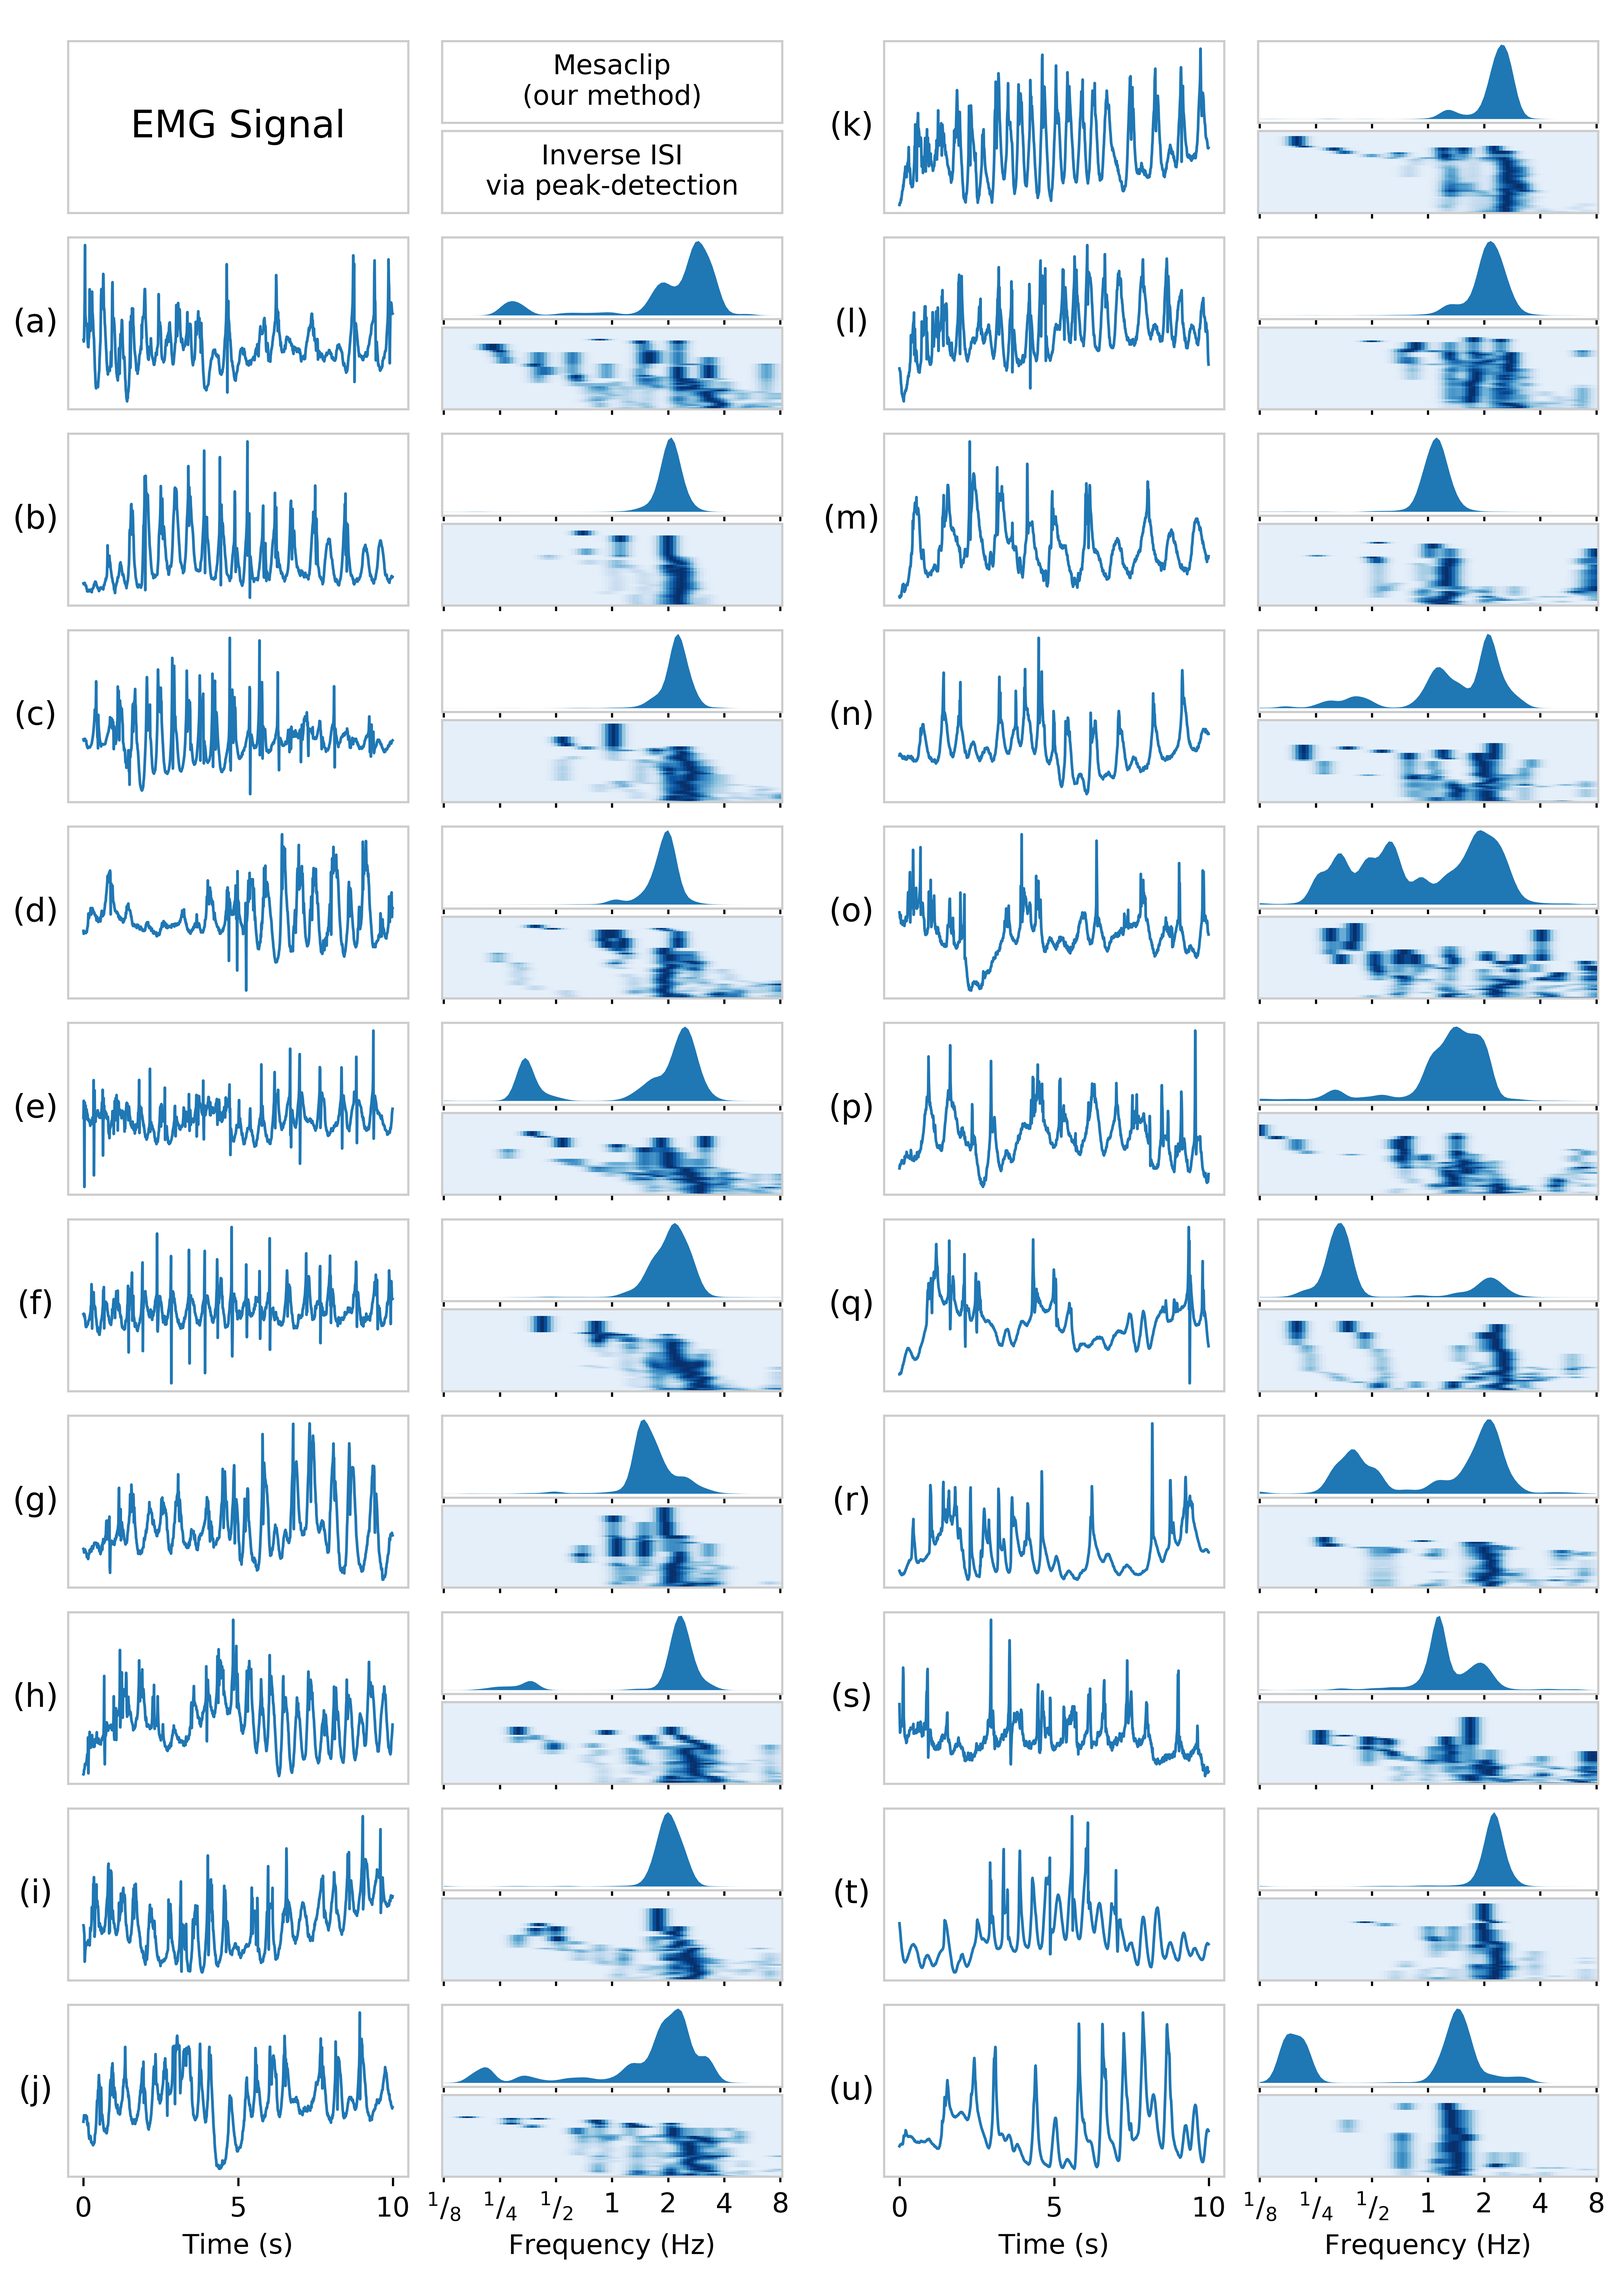
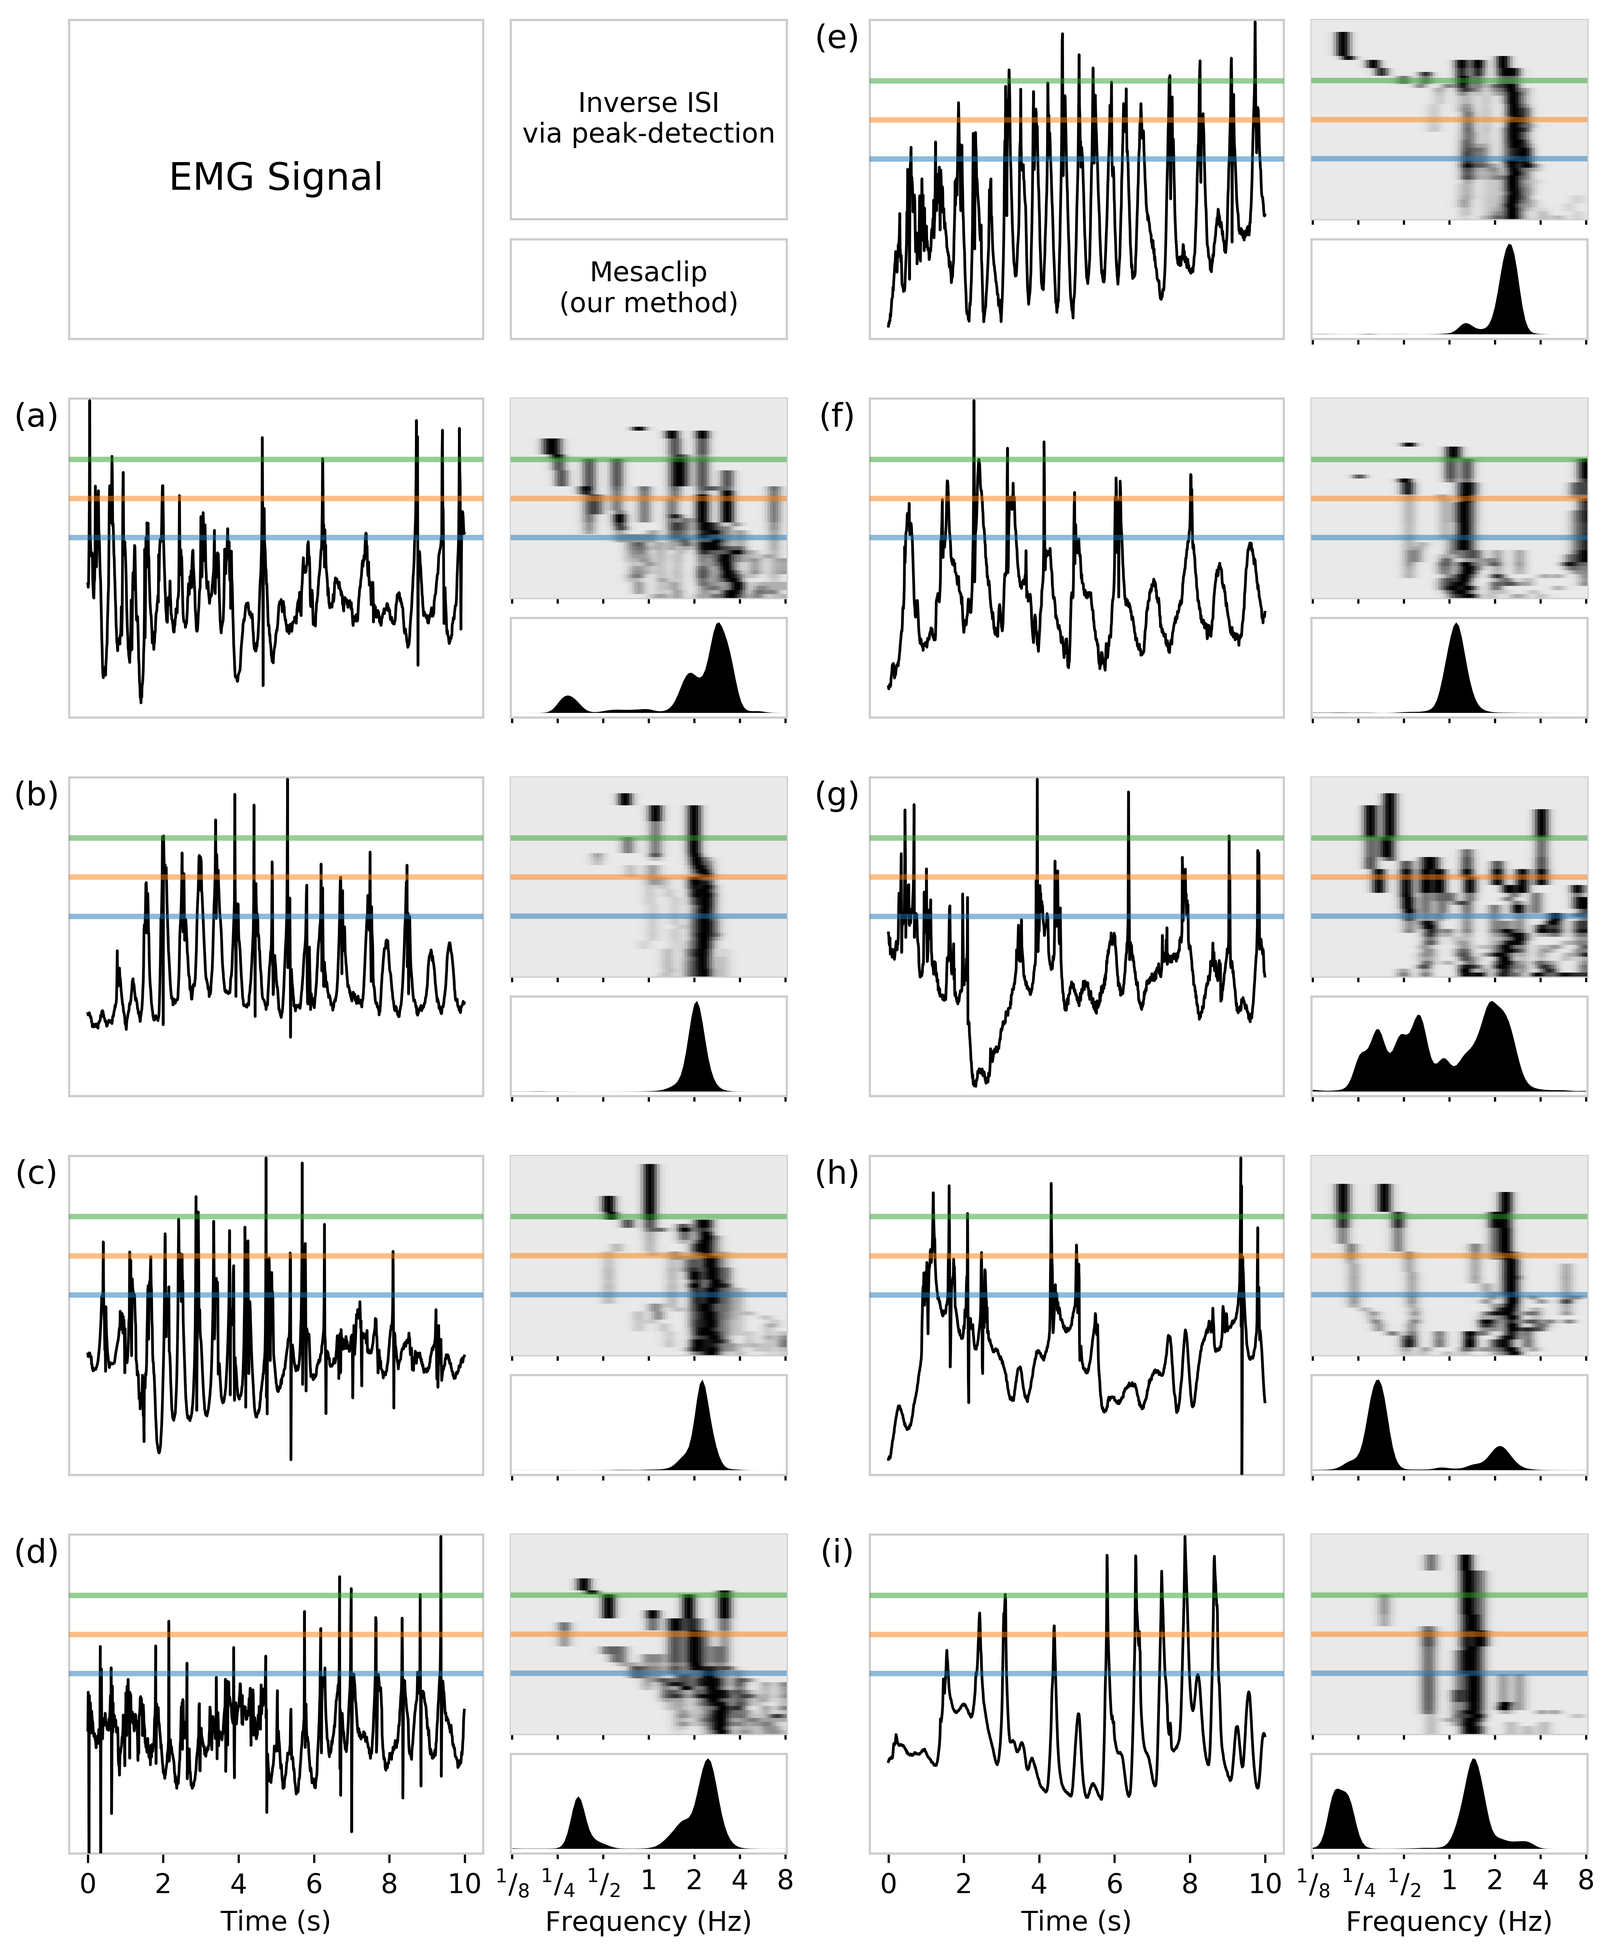
modify real_data to reduce number of examples and highlight thresholds

diff --git a/src/real_data.py b/src/real_data.py
@@ -85,7 +85,13 @@ def main():
 
     xs, t, freqs, threshes, peak_hists, amps = get_results()
 
-    print(np.log2(freqs[1]) - np.log2(freqs[0]))
+    # subset results for clearer/larger view (using original a..u labels)
+    idxs = [ord(c) - ord('a') for c in ['a', 'b', 'c', 'e', 'k', 'm', 'o', 'q', 'u']]
+    xs = xs[idxs]
+    peak_hists = peak_hists[idxs]
+    amps = amps[idxs]
+
+    print(f'delta logHz = {np.log2(freqs[1]) - np.log2(freqs[0]):.3f}')
 
     n = xs.shape[0]
     nrows = n//2+1
@@ -95,22 +101,23 @@ def main():
     log2_freq_edges = utils.make_edges(log2_freqs)
     freq_ticks = np.log2([1/8, 1/4, 1/2, 1, 2, 4, 8])
     freq_ticklabels = ['$^1$/$_8$', '$^1$/$_4$', '$^1$/$_2$', '1', '2', '4', '8']
-    gridx, gridy = np.meshgrid(log2_freq_edges, utils.make_edges(threshes))
+    thresh_edges = utils.make_edges(threshes)
+    gridx, gridy = np.meshgrid(log2_freq_edges, thresh_edges)
 
     # axes widths and x-positions
-    left_margin = 0.2
-    right_margin = 0.05
+    left_margin = 0.25
+    right_margin = 0.1
     column_margin = 0.3
-    width_ratios = [[1]] * 2
+    width_ratios = [[1.5], [1]]
     width_ratios = [reduce((lambda x, y: x + [0.1] + y), width_ratios)] * 2
     width_ratios = [left_margin] + reduce((lambda x, y: x + [column_margin] + y), width_ratios) + [right_margin]
     ax_xs, ax_ws = ratios_to_pos_and_size(width_ratios)
 
     # axes heights and y-positions
-    bottom_margin = 1.3
-    top_margin = 0.5
+    bottom_margin = 0.5
+    top_margin = 0.1
     row_margin = 0.3
-    height_ratios = [[1]] * 2
+    height_ratios = [[0.5], [1]]
     height_ratios = [reduce((lambda x, y: x + [0.1] + y), height_ratios)] * nrows
     height_ratios = [bottom_margin] + reduce((lambda x, y: x + [row_margin] + y), height_ratios) + [top_margin]
     ax_ys, ax_hs = ratios_to_pos_and_size(height_ratios)
@@ -119,13 +126,14 @@ def main():
     ax_ys = ax_ys[::-1]
     ax_hs = ax_hs[::-1]
 
-    fig = plt.figure(figsize=(8.27, 11.69))
+    fig = plt.figure(figsize=(8.27, 10))
 
     spine_color = '0.8'
 
+    # draw legend axes
     ax_x = fig.add_subplot(position=[ax_xs[0], ax_ys[1], ax_ws[0], ax_hs[0] + ax_ys[0] - ax_ys[1]])
-    ax_w = fig.add_subplot(position=[ax_xs[1], ax_ys[0], ax_ws[1], ax_hs[0]])
-    ax_p = fig.add_subplot(position=[ax_xs[1], ax_ys[1], ax_ws[1], ax_hs[1]])
+    ax_p = fig.add_subplot(position=[ax_xs[1], ax_ys[0], ax_ws[1], ax_hs[0]])
+    ax_w = fig.add_subplot(position=[ax_xs[1], ax_ys[1], ax_ws[1], ax_hs[1]])
     for ax in [ax_x, ax_w, ax_p]:
         ax.set_xticks([])
         ax.set_yticks([])
@@ -137,6 +145,11 @@ def main():
     ax_w.text(0.5, 0.5, 'Mesaclip\n(our method)', ha='center', va='center', fontsize=10)
     ax_p.text(0.5, 0.5, 'Inverse ISI\nvia peak-detection', ha='center', va='center', fontsize=10)
 
+    threshes_hline = [0.3, 0.5, 0.7]
+    threshes_colors = plt.rcParams['axes.prop_cycle'].by_key()['color'][0:3]
+    thresh_kwargs = [dict(y=threshes_hline[ci], c=c, lw=2, zorder=50, alpha=0.5)
+                     for ci, c in enumerate(threshes_colors)]
+
     for i in range(n):
 
         row = (i+1) % nrows
@@ -146,40 +159,48 @@ def main():
         r = 2 * row
         c = 2 * col_offset
         ax_x = fig.add_subplot(position=[ax_xs[c+0], ax_ys[r+1], ax_ws[c+0], ax_hs[r+0] + ax_ys[r+0] - ax_ys[r+1]])
-        ax_w = fig.add_subplot(position=[ax_xs[c+1], ax_ys[r+0], ax_ws[c+1], ax_hs[r+0]])
-        ax_p = fig.add_subplot(position=[ax_xs[c+1], ax_ys[r+1], ax_ws[c+1], ax_hs[r+1]])
+        ax_w = fig.add_subplot(position=[ax_xs[c+1], ax_ys[r+1], ax_ws[c+1], ax_hs[r+1]])
+        ax_p = fig.add_subplot(position=[ax_xs[c+1], ax_ys[r+0], ax_ws[c+1], ax_hs[r+0]])
         axs = [ax_x, ax_p, ax_w]
         ax_fs = [ax_p, ax_w]
 
         # plot signals
-        ax_x.plot(t, xs[i], lw=1)
+        ax_x.plot(t, xs[i], lw=1, c='k', zorder=10)
+        ax_x.set_ylim(-0.62, thresh_edges[-1])  # hacky manual y-alignment of ax_x and ax_p
 
         # plot peak frequency estimate
-        ax_p.pcolormesh(gridx, gridy, peak_hists[i], cmap='Blues', vmin=-0.1)
+        ax_p.pcolormesh(gridx, gridy, peak_hists[i], cmap='Greys', vmin=-0.2, zorder=10)
+
+        # annotate thresh lines
+        for kwargs in thresh_kwargs:
+            ax_x.axhline(**kwargs)
+            ax_p.axhline(**kwargs)
 
         # plot wavelet
-        ax_w.fill_between(log2_freqs, amps[i, 0]**2, edgecolor='none')
+        ax_w.fill_between(log2_freqs, amps[i, 0]**2, facecolor='k', edgecolor='none')
         # for j in range(amps.shape[1]):
         #     amp = amps[i, j]**2
         #     amp = amp / np.sum(amp)
         #     ax_w.plot(log2_freqs, amp, alpha=0.7)
 
         # axes refinement
-        ax_x.set_ylabel(f'({chr(ord("a") + i)})', rotation='horizontal', va='center', fontsize=12, labelpad=12)
+        ax_x.set_ylabel(f'({chr(ord("a") + i)})',
+                        position=(0, 0.94), rotation='horizontal', va='center', fontsize=12, labelpad=12)
         for ax in axs:
             ax.set_yticks([])
             for spine in ax.spines:
                 ax.spines[spine].set_color(spine_color)
         if row == nrows - 1:
             ax_x.set_xlabel('Time (s)')
-            ax_p.set_xlabel('Frequency (Hz)')
-            ax_p.set_xticklabels(freq_ticklabels)
+            ax_w.set_xlabel('Frequency (Hz)')
+            ax_x.set_xticks(range(0, 11, 2))
+            ax_w.set_xticklabels(freq_ticklabels)
             for ax in axs:
                 ax.spines['bottom'].set_visible(True)
         else:
             ax_x.set_xticks([])
-            ax_p.set_xticklabels([])
-        ax_w.set_xticklabels([])
+            ax_w.set_xticklabels([])
+        ax_p.set_xticklabels([])
         for ax in ax_fs:
             ax.spines['bottom'].set_visible(True)
             ax.set_xlim([log2_freq_edges[0], log2_freq_edges[-1]])
